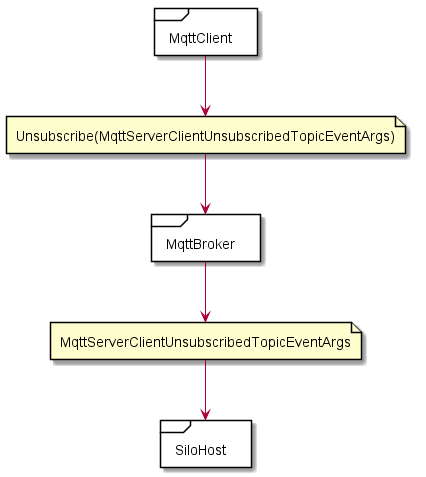
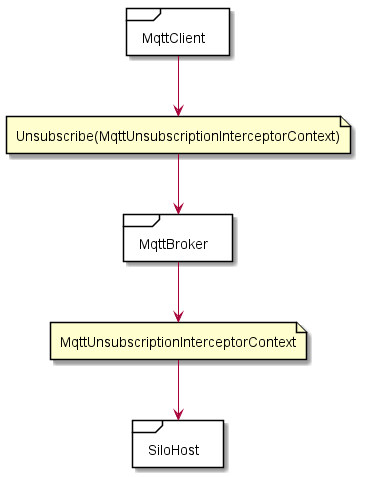
Readme: Adjusted readme to show the correct flow.

diff --git a/README.md b/README.md
@@ -257,7 +257,7 @@ The MQTT client passes the `MqttSubscriptionInterceptorContext` to the MQTT brok
 
 ![](images/client-unsubscribe.svg)
 
-The MQTT client passes the `MqttServerClientUnsubscribedTopicEventArgs` to the MQTT broker. The broker passes this on to the SiloHost. In this case, the SiloHost does not have to do anything else.
+The MQTT client passes the `MqttUnsubscriptionInterceptorContext` to the MQTT broker. The broker passes this on to the SiloHost. In this case, the SiloHost does not have to do anything else.
 
 ## Client publish
 
